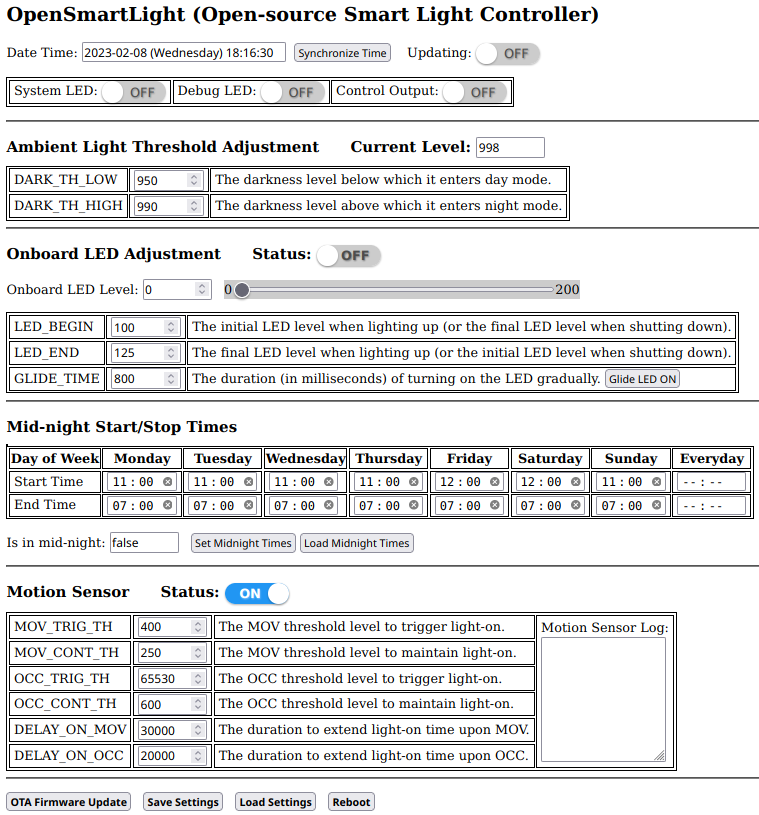
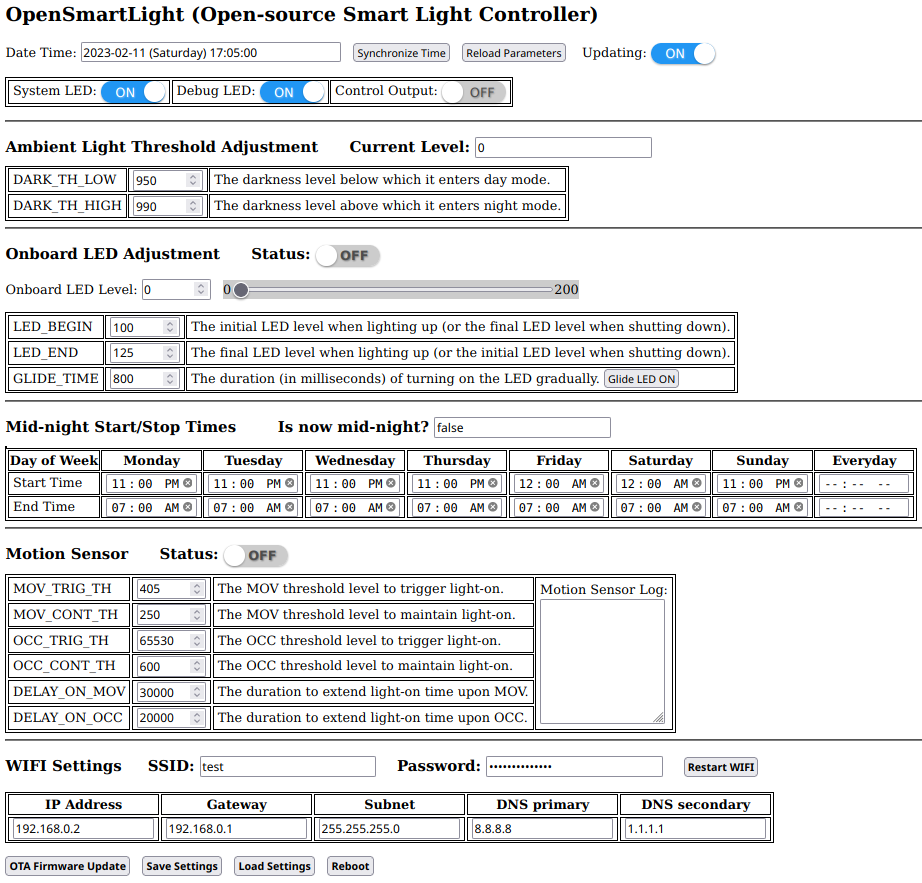
fix bug

diff --git a/opensmartlight-wifi/server_html.h b/opensmartlight-wifi/server_html.h
@@ -10,6 +10,7 @@ h3 {margin-bottom:10px;}
 td {padding-left:5px; padding-right:5px;}
 input {font-size:15px;}
 
+.bb { font-weight: bold; }
 .toggle {
   --width: 80px;
   --height: calc(var(--width) / 3);
@@ -162,7 +163,8 @@ input {font-size:15px;}
 <tr><td>DELAY_ON_OCC</td> <td><input type='number' id='DELAY_ON_OCC' onchange='set_value(this)'></td> <td>The duration to extend light-on time upon OCC. </td></tr>
 </table>
 <hr>
-<h3>WIFI Settings &nbsp;&nbsp;SSID: <input id='wifi_ssid' type='text' onblur='set_string(this)'> &nbsp; Password: <input id='wifi_password' type='password' onblur='set_string(this)'></h3>
+<h3>WIFI Settings &nbsp;&nbsp;SSID: <input id='wifi_ssid' type='text' onblur='set_string(this)'> &nbsp; Password: <input id='wifi_password' type='password' onblur='set_string(this)'>
+  &nbsp; <button onclick='GET("restart_wifi")' class='bb'>Restart WIFI</button></p></h3>
 <table>
 <tr><th>IP Address</th><th>Gateway</th><th>Subnet</th><th>DNS primary</th><th>DNS secondary</th></tr>
 <tr>
@@ -173,10 +175,10 @@ input {font-size:15px;}
   <td><input onblur='set_string(this)' type="text" minlength="7" maxlength="15" size="15" pattern="^((\d{1,2}|1\d\d|2[0-4]\d|25[0-5])\.){3}(\d{1,2}|1\d\d|2[0-4]\d|25[0-5])$" id='wifi_DNS2'></td>
 </tr>
 </table>
-<p><button onclick="location.href='/update'" style='font-weight: bold'>OTA Firmware Update</button>&nbsp;
-  <button onclick='alert(GET("save_eeprom"))' title='Save settings to EEPROM to persist across restarts' style='font-weight: bold'>Save Settings</button>&nbsp;
-  <button onclick='alert(GET("load_eeprom"));update_status("static", true)' title='Load settings from EEPROM' style='font-weight: bold'>Load Settings</button>&nbsp;
-  <button onclick='GET("reboot")' style='font-weight: bold'>Reboot</button></p>
+<p><button onclick="location.href='/update'" class='bb'>OTA Firmware Update</button>&nbsp;
+  <button onclick='alert(GET("save_eeprom"))' title='Save settings to EEPROM to persist across restarts' class='bb'>Save Settings</button>&nbsp;
+  <button onclick='alert(GET("load_eeprom"));update_status("static", true)' title='Load settings from EEPROM' class='bb'>Load Settings</button>&nbsp;
+  <button onclick='GET("reboot")' class='bb'>Reboot</button></p>
 <script>
 var isActive = true;
 var countDown = 0;
